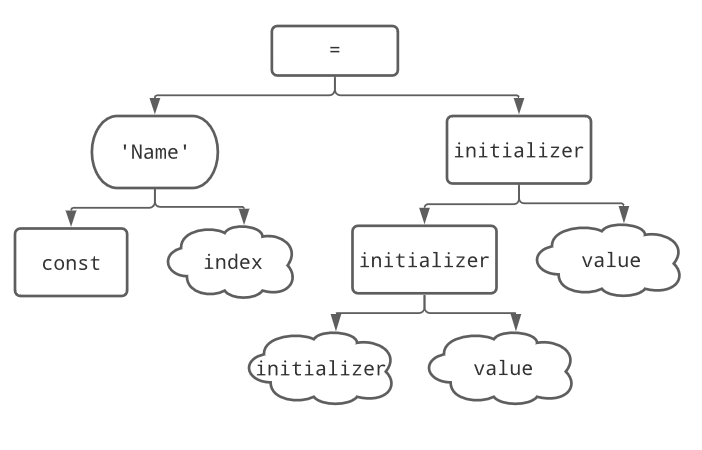
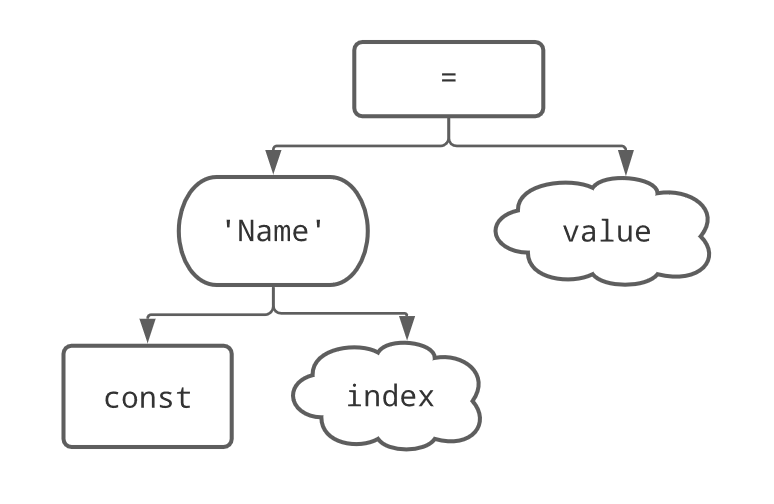
Tree standard: ,  removed; arrays reworked.

diff --git a/front-end_compiler/src/parser/parser.cpp b/front-end_compiler/src/parser/parser.cpp
@@ -305,34 +305,7 @@ static parser_err assign(Node** base)
     MK_NODE(base, &tok);
     (*base)->left = tmp;
 
-    MK_AUX(&(*base)->right, TOK_INITIALIZER);
-
-    peek(&tok, 0);
-    if(tok.type == TYPE_OP && tok.val.op == TOK_LFPAR)
-    {
-        consume(&tok);
-
-        expression(&(*base)->right->right);
-
-        consume(&tok);
-        while(tok.type == TYPE_OP && tok.val.op == TOK_COMMA)
-        {
-            tmp = (*base)->right;
-            MK_AUX(&(*base)->right, TOK_INITIALIZER);
-
-            expression(&(*base)->right->right);
-            (*base)->right->left = tmp;
-
-            consume(&tok);
-        }
-
-        if(tok.type != TYPE_OP || tok.val.op != TOK_RFPAR)
-            syntax_error(&tok);
-    }
-    else
-    {
-        expression(&(*base)->right->right);
-    }
+    expression(&(*base)->right);
 
     consume(&tok);
     if(tok.type != TYPE_OP || tok.val.op != TOK_SEMICOLON)

diff --git a/front-end_compiler/src/main.cpp b/front-end_compiler/src/main.cpp
@@ -13,10 +13,11 @@ int main()
     
     main()
     {
-        i[10] = {11, 22, 33};
-        var = x >> (1) + 7;
+        y = x >> (5);
+
         return 0;
     }
+
     )";
     Tree tree = {};
     parse(&tree, buffer, sizeof(buffer) - 1);

diff --git a/tree_standard.md b/tree_standard.md
@@ -289,49 +289,39 @@ Terminates current function and returns specified value to caller.
 ### **Assignment**
 Assigns value to variable.
 
-First initializer is written in memory for variable itself. Every next initializer is written in memory with shift.
+If shift is specified value is written with relative shift to variable.
+
+If variable wasn't declared before, memory of `shift + 1` size should be allocated.
 
 * Parent &ndash; `statement` (both ***first branch*** and not ***first branch***)
 * Name &ndash; ***identifier*** (variable name)
-* Index &ndash; ***expression***
+* Shift &ndash; ***index***
 * Value &ndash; ***expression***
 
 - `=` &ndash; main node of assignment.
 - `const` &ndash; optional node, specifies that variable is constant
-- `initializer` &ndash; node for variable initializer
 
 <img src = "img/assignment.png">
 
     main()
     {
         x = 1;
-        
+
         return 0;
     }
+
+    global_x = 2;    
 
 <img src = "img/assignment_ex1.png">
 
     main()
     {
-        x[777] = {1, 2, 3, 4, 5 * 11};
+        x[8] = 1337;
 
         return 0;
     }
 
 <img src = "img/assignment_ex2.png">
-
-    main()
-    {
-        x = {1, 2, 3};
-
-        return 0;
-    }
-
-<img src = "img/assignment_ex3.png">
-
-> If index is specified variable is interpreted as array.
-
-> If variable wasn't declared before, index is interpreted as size of array. Otherwise index is interpreted as relative shift before assignment.
 
 > `=` is not an operator, it doesn't return any output. Therefore, it <u>cannot</u> be used in ***expression***
 
@@ -342,13 +332,13 @@ Tree does not distinguish between variables and arrays. Index can be specified f
 
 * **assignment**, variable wasn't declared
 
-    Static memory of *index* size should be allocated.
+    Static memory of `index + 1` size is allocated. Value is written with *index* shift.
 
 <img src = "img/index_assignment_notdecl.png">
 
 * **assignment**, variable was declared
 
-    *Index* should be used as shift in memory relative to variable.
+    Value is written with *index* shift.
 
 <img src = "img/index_assignment_decl.png">
 
@@ -360,13 +350,15 @@ Tree does not distinguish between variables and arrays. Index can be specified f
 
 * **expression**, variable was declared
 
-    *Index* should be used as shift in memory relative to variable.
+    Value is read with *index* shift.
 
 <img src = "img/index_expression_decl.png">
 
+## **Maintainers**
+
+Alexander Simankovich (docs maintainer) simankovich.al@phystech.edu
+
+Denis Dedkov dedkov.da@phystech.edu
+
 ## **Contributors**
-Denis "d3phys" Dedkov
-
-Ivan "vian96" Martynov
-
-Alexander "futherus" Simankovich (docs maintainer)
+Ivan Martynov martynov.is@phystech.edu
